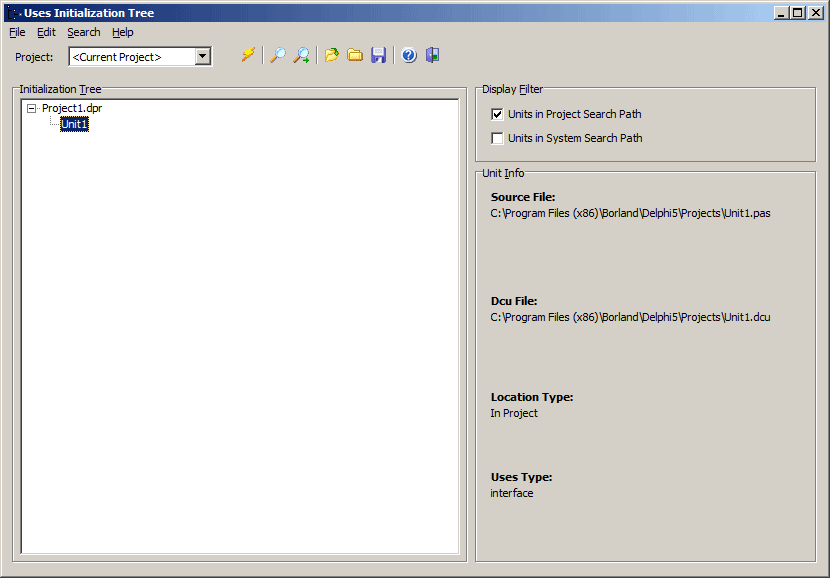
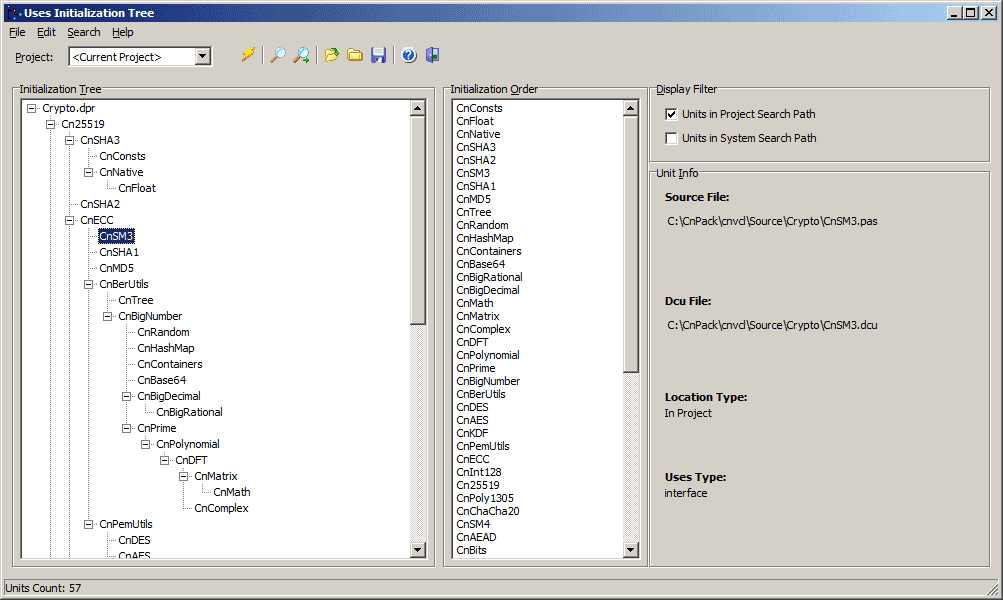
* [Uses Tools] Update Help and Snapshot.

Changed region(s): [[0.0, 0.0, 1.0, 0.9965]]

diff --git a/Help/CnWizards_ENU/wizards/cnusestools.htm b/Help/CnWizards_ENU/wizards/cnusestools.htm
@@ -87,7 +87,7 @@
 <p class="title">&nbsp;</p>
 <p class="title">Uses Initialization Tree</p>
 <p class="text" align="left">This tool can analyse compiled units in project and list their initialization order into a tree with location type and uses type.</p>
-<p class="text" align="left">The window is shown as below, including initialization tree, display filter and unit information.</p>
+<p class="text" align="left">The window is shown as below, including initialization tree, initialization order (prefix depth first travel result of tree), display filter and unit information.</p>
 <p class="text" align="center">&nbsp;<img src="usesinittree.png"></p>
 <p class="text" align="left">
 <ul>
